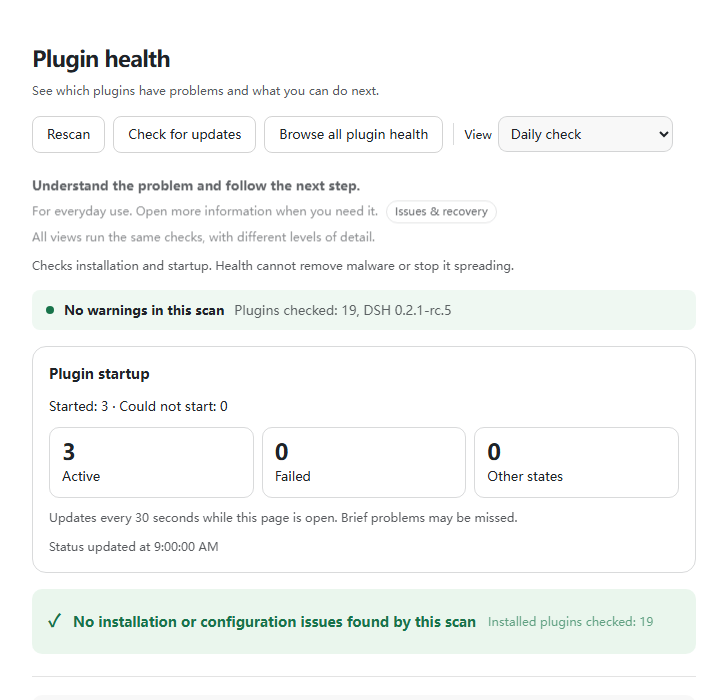
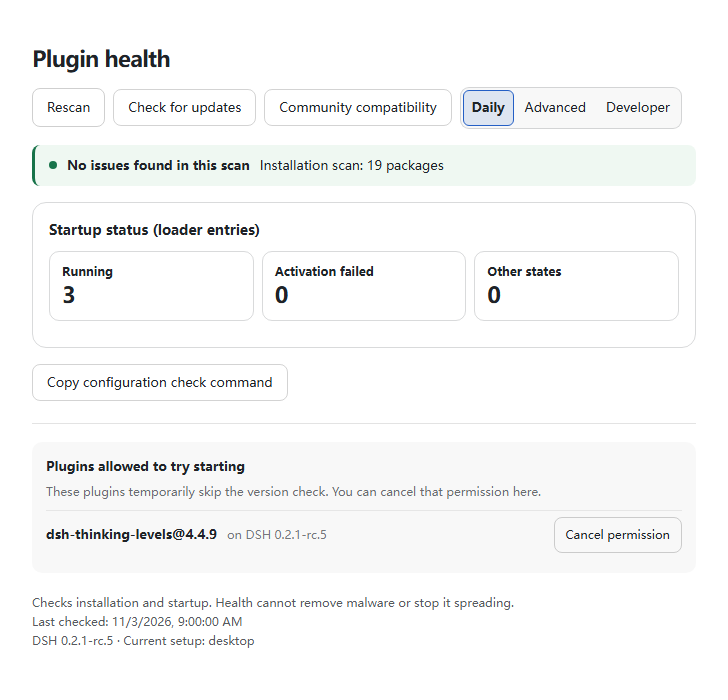
docs: describe the 3.2 settings and refresh screenshots
Show how readers can switch views, interpret the counts and find scan details in either language.

diff --git a/test/readme-images.test.js b/test/readme-images.test.js
@@ -78,7 +78,7 @@ test('both READMEs document the same feature set', () => {
   // description of an older product.
   const features = [
     [/DSH_PLUGIN_HEALTH_NO_UPDATE/u, 'the update-check opt-out'],
-    [/Browse all plugin health|浏览全部插件健康状况/u, 'the link to the public table'],
+    [/Community compatibility|社区兼容表/u, 'the link to the public table'],
     [/Check for updates|检查更新/u, 'the on-demand update check'],
   ]
   for (const [pattern, label] of features) {

diff --git a/docs/README.zh.md b/docs/README.zh.md
@@ -57,7 +57,7 @@ npm install -g dsh-plugin-health
 
 Health 的放行记录可以撤销。撤销不会逆转插件执行已经造成的影响。
 
-![设置页：显示模式选择、能力边界说明、插件启动情况，以及一个被拒绝的插件](https://raw.githubusercontent.com/EasonMWS/dsh-plugin-health/main/docs/images/settings-finding.zh.png)
+![设置页的模式按钮、警告、安装扫描包数和启动状态计数](https://raw.githubusercontent.com/EasonMWS/dsh-plugin-health/main/docs/images/settings-finding.zh.png)
 
 预演通过后才会写入放行，旁边就是撤销按钮：
 
@@ -238,7 +238,7 @@ jobs:
 |---|---|
 | **重新扫描** | 立刻重跑整个检查 |
 | **检查更新** | 手动问一次 npm：**这个插件自己**有没有新版本 |
-| **浏览全部插件健康状况** | 打开[公开兼容性表](https://easonmws.github.io/dsh-plugin-health/compat/) |
+| **社区兼容表** | 查看社区目录条目的版本声明和启动实测。[公开兼容性表](https://easonmws.github.io/dsh-plugin-health/compat/) |
 
 **更新可以在面板里一键装，不用开终端。** 检查完会出现「立即更新」按钮，它调用 profile 自己的包管理器
 （pnpm profile 就用 pnpm，绝不往 pnpm 里塞 npm），装的是检查到的那个确切版本。装完它会说"需要重启"
@@ -257,18 +257,18 @@ jobs:
 
 **<https://easonmws.github.io/dsh-plugin-health/compat/>**
 
-社区目录里的每个插件，对着当前几个宿主版本查一遍。顶上直接给数字，一眼看出生态现在的状况：
+兼容表取材于社区目录，把条目的版本声明和当前宿主版本对比。
 
 | | |
 | --- | --- |
-| **多少** | 一共查了多少、多少所有宿主都接受、多少被拒 |
+| **数量** | 兼容表收录条目总数（含未知结果）、按宿主版本统计与下一版本预测 |
 | **分类** | 用目录自己的分类，可以筛 |
 | **发布日期** | 当前版本的发布时间——能看出作者还在不在维护 |
 | **筛选** | 按名字、按分类，或只看被拒的 |
 | **语言** | 中英文切换，会记住 |
 
-打勾表示插件的声明范围包含那个宿主版本，安装器不会拒绝它——**不代表插件能用，也不是安全审查**。
-页面里写清了覆盖范围：只在 GitHub 或 tarball 上的插件没发 npm，查不了，也不计入。
+打勾表示插件的声明范围包含对应宿主版本。启动实测有单独的结果和证据链接。
+标为 **仅 GitHub** 的条目使用默认分支上可读取的包清单。
 
 同一份数据可以下载：[`matrix.json`](https://easonmws.github.io/dsh-plugin-health/compat/matrix.json)。
 也可以给自己的插件集生成一份：
@@ -490,16 +490,14 @@ dsh plugin --profile desktop add dsh-plugin-health
 #                 ^^^^^^^ 桌面版用 `desktop`；`dsh web` 用 `web`
 ```
 
-- **它检查的是你机器上真实安装的每一个插件**，不是抽样，也不只看 bundle 列表：
-  bundle、`package.json` 依赖、`cordis.patch.yml` 的 insert（含嵌套）、`node_modules` 里所有插件形态的包。
-  页面顶部会直接告诉你这次检查了多少个。
+- **安装扫描**显示在当前环境找到的包数，来源包括 bundle、依赖、补丁和插件目录，缺失或损坏的包也可能计入。
+  **启动状态**数的是加载条目，一个包可以对应多个条目。
 - 每条问题都用大白话解释，并给出「怎么做」，第一次用的人不用读文档也能处理；
-- 顶部一行结论告诉你该不该担心：`可以放心用` 或 `有问题建议处理`；旁边三个按钮：
-  `重新扫描` 随时重跑、`检查更新` 看插件本身有没有新版本、`浏览全部插件健康状况`
-  直接打开[公开兼容性表](https://easonmws.github.io/dsh-plugin-health/compat/)；
+- 顶部显示 **本次检查未发现问题** 或 **有问题建议处理**。用 **重新扫描** 再查一次，
+  用 **检查更新** 查询 Health 自身的版本，或打开 **社区兼容表** 看公开目录条目。[公开兼容性表](https://easonmws.github.io/dsh-plugin-health/compat/)
 - **打开 DSH 时会自己查一次新版本**，查到了才提示（附上完整的升级命令），没查到就什么都不说——
   不会每次开面板都弹一句"已是最新"；
-- **一切正常时什么都不显示**：没有徽章、没有横幅、没有侧栏条目；
+- 侧栏在发现问题或 Health 有可用更新时显示入口。
 - **真的有问题时**，账号菜单上方会出现一个 `插件有 N 个问题` 的小入口，点一下直接跳到设置分区；
 - host 半身只提供 loopback 只读快照，不会修改你的 profile。
 
@@ -720,13 +718,13 @@ dsh-plugin-health repair --home C:\Users\me\.dsh --profile desktop --apply --yes
 
 ## 修改前先预检
 
-在 **设置 → 插件健康** 可按使用习惯选择视图。**日常检查**适合偶尔使用的人，提供问题摘要和修复入口。
-**进阶诊断**适合经常使用、管理多个插件的人，展开加载条目、近期变化、配置覆盖和目标版本预检。
-**开发验证**适合插件作者，额外提供运行证据下载与命令行用法。
+在 **设置 → 插件健康** 用标题旁的按钮切换视图。**日常检查**提供问题摘要和修复入口，
+**进阶诊断**增加加载条目、近期变化和配置覆盖，**开发验证**增加运行证据下载和命令行示例。
+升级预检显示已判定版本声明的包数，以及声明不匹配且未放行的包数。
 
-三个选项是显示偏好，不是不同保护等级；权限和检查范围保持一致。切换时保留预检输入、结果与展开状态。
-详情支持键盘 Enter / Space 展开和收起，跟随系统的减少动态效果设置；窄窗口下内容会自动换行。
-面板每 30 秒读取一次宿主状态。刷新失败时保留上次结果并明确标记，重新扫描成功后才恢复正常结论。
+用 Tab 聚焦模式按钮，按 Enter 或空格切换。切换时保留预检输入、结果和展开状态。
+将鼠标悬停在 **重新扫描** 上或用键盘聚焦按钮，可查看刷新频率和最近读取启动状态的时间。
+安全能力边界写在页脚。刷新失败时保留上次结果并标记为过期，重新扫描成功后恢复正常结论。
 配置发生变化后，已有预检结果会提示重新验证。导出前请留意其中的插件名、配置标识和路径。
 只读请求超过 15 秒会退出等待并允许重试。修复确认绑定五分钟内生成的单次预览，
 新增目标或检测到目标变化时需重新预览；失败后可查看原因并重新生成计划。

diff --git a/README.md b/README.md
@@ -63,7 +63,7 @@ Open **Settings → Plugin health**. You get one line per problem, and one butto
 
 You can revoke Health's exemption record. Revocation does not undo effects of plugin execution.
 
-![The settings section: a mode selector, the capability boundary, live startup status, and a rejected plugin](https://raw.githubusercontent.com/EasonMWS/dsh-plugin-health/main/docs/images/settings-finding.png)
+![Plugin health with view buttons, a warning, installation scan count and startup counters](https://raw.githubusercontent.com/EasonMWS/dsh-plugin-health/main/docs/images/settings-finding.png)
 
 Once the rehearsal passes, you get the exemption and a Revoke button beside it:
 
@@ -299,20 +299,19 @@ Before installing anything:
 
 **<https://easonmws.github.io/dsh-plugin-health/compat/>**
 
-Every plugin in the community catalog, checked against the current host versions, with the counts at
-the top so you can see the state of the ecosystem at a glance:
+The compatibility table uses entries from the community catalog and compares their declarations
+against current host versions.
 
 | | |
 | --- | --- |
-| **How many** | Total checked, how many load on every host, how many a host rejects |
+| **How many** | All compatibility table entries, including unknown results, with counts by host and a next-build forecast |
 | **Category** | The catalog's own category, filterable |
 | **Released** | Publish date of the version shown — tells you whether the author is still active |
 | **Filter** | By name, by category, or only the rejected ones |
 | **Language** | English / 中文, remembered between visits |
 
-A tick means the plugin's declared range admits that host, so the installer will not reject it. It
-does **not** mean the plugin works, and it is not a security review. The page says which plugins it
-covers and which it cannot: GitHub-only and tarball-only entries are not on npm and are not checked.
+A tick means the plugin's declared range admits that host. Startup tests have separate results and
+evidence links. Entries marked **GitHub only** use a readable manifest from the default branch.
 
 The same data is downloadable as
 [`matrix.json`](https://easonmws.github.io/dsh-plugin-health/compat/matrix.json), and you can build
@@ -572,18 +571,17 @@ dsh plugin --profile desktop add dsh-plugin-health
 #                 ^^^^^^^ desktop app uses `desktop`; `dsh web` uses `web`
 ```
 
-- **It checks every plugin you actually have installed**, not a sample and not just the bundle list:
-  bundles, `package.json` dependencies, `cordis.patch.yml` inserts (including nested ones), and
-  anything plugin-shaped in `node_modules`. The header tells you how many were inspected.
+- **Installation scan** counts packages found in the current setup through bundles, dependencies,
+  patch entries and plugin-like directories. Missing or damaged packages can be part of that count.
+  **Startup status** counts loader entries. One package can contribute multiple entries.
 - Every finding is written in plain language with a concrete next step — a first-time user can act
   without reading CLI docs.
-- One line at the top says whether you can relax (`可以放心用`) or should act (`有问题建议处理`),
-  with three controls beside it: `重新扫描` to re-run the check, `检查更新` to ask the registry
-  whether this plugin itself is current, and `浏览全部插件健康状况` to open the
-  [public compatibility table](https://easonmws.github.io/dsh-plugin-health/compat/).
+- The first status line says **No issues found in this scan** or **Issues need attention**.
+  Choose **Rescan** to run the check again, **Check for updates** to check Health itself, or
+  **Community compatibility** to see public table entries. [Public compatibility table](https://easonmws.github.io/dsh-plugin-health/compat/)
 - **It checks for its own updates when DSH opens** and only speaks up when there is something newer,
   with the exact upgrade command. No "you are up to date" banner on every visit.
-- **If nothing is wrong, nothing is shown.** The plugin adds no badge, no banner, no sidebar entry.
+- The sidebar shows an entry when issues or an available Health update need attention.
 - **When something is wrong**, a compact `插件有 N 个问题` entry appears above the account menu and
   jumps straight to the section.
 - The host half only serves a loopback-only read-only snapshot; the plugin never modifies your
@@ -806,16 +804,15 @@ Repairs are opt-in (`--apply`), default to a dry run, and never delete:
 
 ## Review your profile before making changes
 
-Open **Settings → Plugin health** and choose a view. **Daily check** suits occasional users who want
-problem summaries and recovery controls. **Advanced diagnostics** suits frequent users managing
-several plugins, adding loader entries, recent transitions, configuration findings and target-version
-preview. **Developer verification** suits plugin authors, adding runtime evidence export and CLI examples.
+Open **Settings → Plugin health** and use the buttons next to the title. **Daily** shows findings and
+recovery controls, **Advanced** adds loader entries and configuration findings, and **Developer**
+adds runtime evidence export and CLI examples. The upgrade preview reports how many packages had
+assessable version declarations and how many had mismatches without exemptions.
 
-These are display preferences, not different protection levels. Permissions and scan coverage are
-the same in all three views. Preview inputs, results and
-expanded sections remain when switching views in the open panel. Disclosures support Enter and Space,
-respect reduced-motion preferences and wrap on narrow screens. The panel reads host state every 30
-seconds. A failed refresh preserves the last results with a stale notice, and a later configuration
+Tab to a view button and use Enter or Space to select it. Preview inputs, results and expanded sections
+are preserved when switching views. Hover over or focus **Rescan** for refresh timing and the last
+observed startup state timestamp. The footer describes the security limits. A failed refresh preserves
+the last results with a stale notice, and a later configuration
 change prompts a new preview. Review exported plugin names, configuration identifiers and paths before sharing.
 Read requests time out after 15 seconds and allow retry. Repair confirmation uses a one-use preview
 valid for five minutes. New or changed targets require another preview; failed repairs show their reason

diff --git a/CHANGELOG.md b/CHANGELOG.md
@@ -1,5 +1,28 @@
 # Changelog
 
+## 3.2.0
+
+### Settings opens with a verdict
+
+The header used to explain each mode before showing the result. Three view buttons now sit with
+the scan and update actions. The verdict appears once. Refresh timing and the last startup observation
+are available on **Rescan**, and the malware-protection limit is in the footer.
+
+### Counts name what they measure
+
+- **Installation scan** counts packages discovered in the current setup. **Startup status** counts
+  loader entries and uses the same state labels in all views.
+- Both upgrade previews report packages with assessable version declarations and mismatches
+  without exemptions. Startup tests have their own results.
+- The public compatibility table labels its total as table entries. That total includes unknown
+  results. The filtered count identifies how many of the loaded entries match.
+
+### Verification
+
+The bilingual render tests cover removed copy, the view controls, distinct count scopes and mixed
+declaration states. The Edge fixture checks keyboard switching, selection persistence, refresh
+timing and the 360px layout. The README screenshots were refreshed from the settings component.
+
 ## 3.1.1
 
 Removes a warning that was wrong on every host this tool supports, and whose advice could stop the
